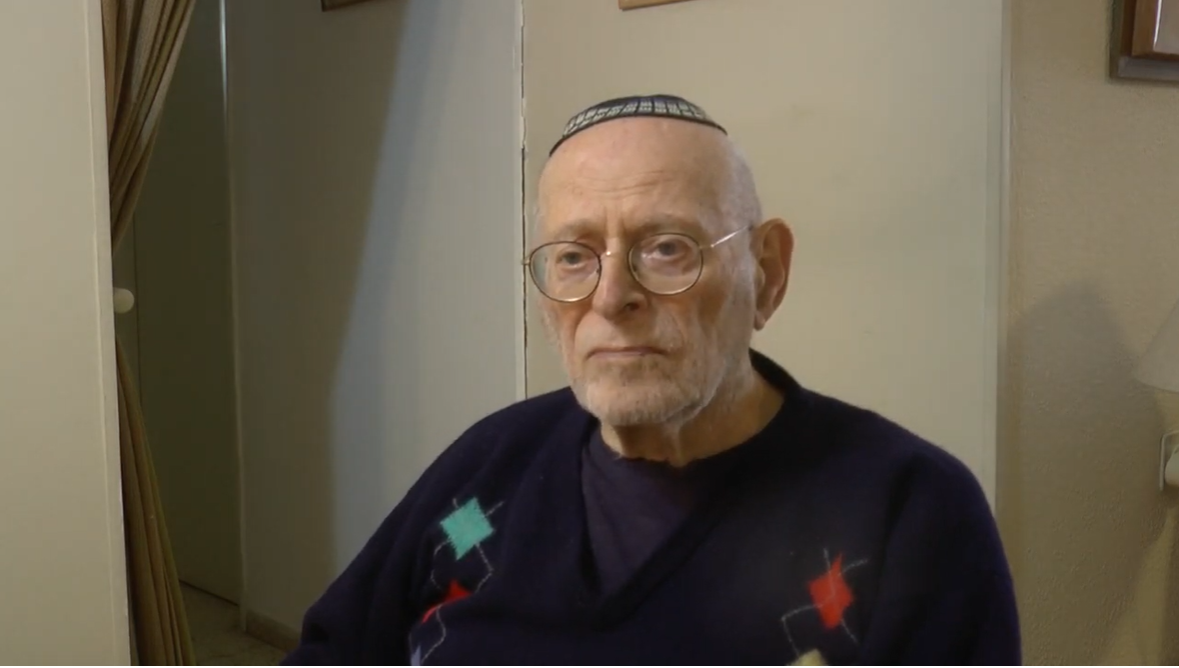
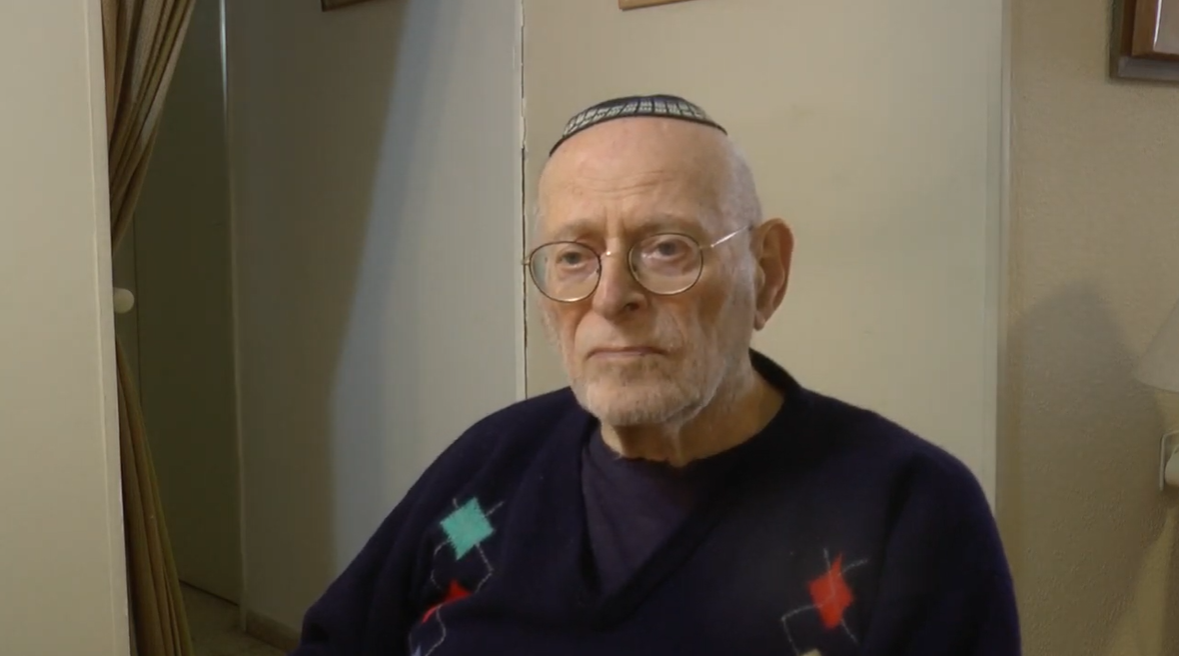
testimonies: add boxes for Eli Ringer, Paulette Fuchs Mauer, Jeanine Dorf, Chaim Rozial Charlie Freed, and Meir Marilus

diff --git a/he/holocaust/testimonies.html b/he/holocaust/testimonies.html
@@ -157,12 +157,9 @@
                         <!-- Box 2 -->
                         <div class="testimony-card">
                             <div class="testimony-box">
-                                <svg viewBox="0 0 24 24" fill="none" stroke="currentColor" stroke-width="1.5">
-                                    <path d="M19 21v-2a4 4 0 0 0-4-4H9a4 4 0 0 0-4 4v2" stroke-linecap="round" stroke-linejoin="round"/>
-                                    <circle cx="12" cy="7" r="4" stroke-linecap="round" stroke-linejoin="round"/>
-                                </svg>
+                                <img src="../../images/Testimonies pictures/Eli-Ringer.PNG" alt="אלי רינגר" class="testimony-img">
                             </div>
-                            <span class="testimony-name">אניקה וולפסון לבית רינגר</span>
+                            <span class="testimony-name">אלי רינגר</span>
                         </div>
 
                         <!-- Box 3 -->
@@ -173,23 +170,29 @@
                                     <circle cx="12" cy="7" r="4" stroke-linecap="round" stroke-linejoin="round"/>
                                 </svg>
                             </div>
-                            <span class="testimony-name">בינה קמילה לבית צ'אפק</span>
+                            <span class="testimony-name">אניקה וולפסון לבית רינגר</span>
                         </div>
 
                         <!-- Box 4 -->
                         <div class="testimony-card">
                             <div class="testimony-box">
-                                <img src="../../images/Testimonies pictures/Sylvain-Brachfeld-1932.PNG" alt="סילבן ברכפלד (נולד ב-1932)" class="testimony-img">
+                                <svg viewBox="0 0 24 24" fill="none" stroke="currentColor" stroke-width="1.5">
+                                    <path d="M19 21v-2a4 4 0 0 0-4-4H9a4 4 0 0 0-4 4v2" stroke-linecap="round" stroke-linejoin="round"/>
+                                    <circle cx="12" cy="7" r="4" stroke-linecap="round" stroke-linejoin="round"/>
+                                </svg>
                             </div>
-                            <span class="testimony-name">סילבן ברכפלד (נולד ב-1932)</span>
+                            <span class="testimony-name">בינה קמילה לבית צ'אפק</span>
                         </div>
 
                         <!-- Box 5 -->
                         <div class="testimony-card">
                             <div class="testimony-box">
-                                <img src="../../images/Testimonies pictures/Sylvain-Brachfeld-1939.PNG" alt="סילבן ברכפלד (נולד ב-1939)" class="testimony-img">
+                                <svg viewBox="0 0 24 24" fill="none" stroke="currentColor" stroke-width="1.5">
+                                    <path d="M19 21v-2a4 4 0 0 0-4-4H9a4 4 0 0 0-4 4v2" stroke-linecap="round" stroke-linejoin="round"/>
+                                    <circle cx="12" cy="7" r="4" stroke-linecap="round" stroke-linejoin="round"/>
+                                </svg>
                             </div>
-                            <span class="testimony-name">סילבן ברכפלד (נולד ב-1939)</span>
+                            <span class="testimony-name">ז'אנין דורף</span>
                         </div>
 
                         <!-- Box 6 -->
@@ -200,10 +203,59 @@
                                     <circle cx="12" cy="7" r="4" stroke-linecap="round" stroke-linejoin="round"/>
                                 </svg>
                             </div>
-                            <span class="testimony-name">רחל שטרנגר לבית רינגר</span>
+                            <span class="testimony-name">חיים רוזיאל צ'רלי פריד</span>
                         </div>
 
                         <!-- Box 7 -->
+                        <div class="testimony-card">
+                            <div class="testimony-box">
+                                <svg viewBox="0 0 24 24" fill="none" stroke="currentColor" stroke-width="1.5">
+                                    <path d="M19 21v-2a4 4 0 0 0-4-4H9a4 4 0 0 0-4 4v2" stroke-linecap="round" stroke-linejoin="round"/>
+                                    <circle cx="12" cy="7" r="4" stroke-linecap="round" stroke-linejoin="round"/>
+                                </svg>
+                            </div>
+                            <span class="testimony-name">מאיר מרילוס</span>
+                        </div>
+
+                        <!-- Box 8 -->
+                        <div class="testimony-card">
+                            <div class="testimony-box">
+                                <img src="../../images/Testimonies pictures/Sylvain-Brachfeld-1932.PNG" alt="סילבן ברכפלד (נולד ב-1932)" class="testimony-img">
+                            </div>
+                            <span class="testimony-name">סילבן ברכפלד (נולד ב-1932)</span>
+                        </div>
+
+                        <!-- Box 9 -->
+                        <div class="testimony-card">
+                            <div class="testimony-box">
+                                <img src="../../images/Testimonies pictures/Sylvain-Brachfeld-1939.PNG" alt="סילבן ברכפלד (נולד ב-1939)" class="testimony-img">
+                            </div>
+                            <span class="testimony-name">סילבן ברכפלד (נולד ב-1939)</span>
+                        </div>
+
+                        <!-- Box 10 -->
+                        <div class="testimony-card">
+                            <div class="testimony-box">
+                                <svg viewBox="0 0 24 24" fill="none" stroke="currentColor" stroke-width="1.5">
+                                    <path d="M19 21v-2a4 4 0 0 0-4-4H9a4 4 0 0 0-4 4v2" stroke-linecap="round" stroke-linejoin="round"/>
+                                    <circle cx="12" cy="7" r="4" stroke-linecap="round" stroke-linejoin="round"/>
+                                </svg>
+                            </div>
+                            <span class="testimony-name">פולט פוקס מאואר</span>
+                        </div>
+
+                        <!-- Box 11 -->
+                        <div class="testimony-card">
+                            <div class="testimony-box">
+                                <svg viewBox="0 0 24 24" fill="none" stroke="currentColor" stroke-width="1.5">
+                                    <path d="M19 21v-2a4 4 0 0 0-4-4H9a4 4 0 0 0-4 4v2" stroke-linecap="round" stroke-linejoin="round"/>
+                                    <circle cx="12" cy="7" r="4" stroke-linecap="round" stroke-linejoin="round"/>
+                                </svg>
+                            </div>
+                            <span class="testimony-name">רחל שטרנגר לבית רינגר</span>
+                        </div>
+
+                        <!-- Box 12 -->
                         <div class="testimony-card">
                             <div class="testimony-box">
                                 <svg viewBox="0 0 24 24" fill="none" stroke="currentColor" stroke-width="1.5">

diff --git a/fr/holocaust/testimonies.html b/fr/holocaust/testimonies.html
@@ -184,10 +184,62 @@
                                     <circle cx="12" cy="7" r="4" stroke-linecap="round" stroke-linejoin="round"/>
                                 </svg>
                             </div>
-                            <span class="testimony-name">Rachel Strenger, née Ringer</span>
+                            <span class="testimony-name">Chaim Rozial Charlie Freed</span>
                         </div>
 
                         <!-- Box 5 -->
+                        <div class="testimony-card">
+                            <div class="testimony-box">
+                                <img src="../../images/Testimonies pictures/Eli-Ringer.PNG" alt="Eli Ringer" class="testimony-img">
+                            </div>
+                            <span class="testimony-name">Eli Ringer</span>
+                        </div>
+
+                        <!-- Box 6 -->
+                        <div class="testimony-card">
+                            <div class="testimony-box">
+                                <svg viewBox="0 0 24 24" fill="none" stroke="currentColor" stroke-width="1.5">
+                                    <path d="M19 21v-2a4 4 0 0 0-4-4H9a4 4 0 0 0-4 4v2" stroke-linecap="round" stroke-linejoin="round"/>
+                                    <circle cx="12" cy="7" r="4" stroke-linecap="round" stroke-linejoin="round"/>
+                                </svg>
+                            </div>
+                            <span class="testimony-name">Jeanine Dorf</span>
+                        </div>
+
+                        <!-- Box 7 -->
+                        <div class="testimony-card">
+                            <div class="testimony-box">
+                                <svg viewBox="0 0 24 24" fill="none" stroke="currentColor" stroke-width="1.5">
+                                    <path d="M19 21v-2a4 4 0 0 0-4-4H9a4 4 0 0 0-4 4v2" stroke-linecap="round" stroke-linejoin="round"/>
+                                    <circle cx="12" cy="7" r="4" stroke-linecap="round" stroke-linejoin="round"/>
+                                </svg>
+                            </div>
+                            <span class="testimony-name">Meir Marilus</span>
+                        </div>
+
+                        <!-- Box 8 -->
+                        <div class="testimony-card">
+                            <div class="testimony-box">
+                                <svg viewBox="0 0 24 24" fill="none" stroke="currentColor" stroke-width="1.5">
+                                    <path d="M19 21v-2a4 4 0 0 0-4-4H9a4 4 0 0 0-4 4v2" stroke-linecap="round" stroke-linejoin="round"/>
+                                    <circle cx="12" cy="7" r="4" stroke-linecap="round" stroke-linejoin="round"/>
+                                </svg>
+                            </div>
+                            <span class="testimony-name">Paulette Fuchs Mauer</span>
+                        </div>
+
+                        <!-- Box 9 -->
+                        <div class="testimony-card">
+                            <div class="testimony-box">
+                                <svg viewBox="0 0 24 24" fill="none" stroke="currentColor" stroke-width="1.5">
+                                    <path d="M19 21v-2a4 4 0 0 0-4-4H9a4 4 0 0 0-4 4v2" stroke-linecap="round" stroke-linejoin="round"/>
+                                    <circle cx="12" cy="7" r="4" stroke-linecap="round" stroke-linejoin="round"/>
+                                </svg>
+                            </div>
+                            <span class="testimony-name">Rachel Strenger, née Ringer</span>
+                        </div>
+
+                        <!-- Box 10 -->
                         <div class="testimony-card">
                             <div class="testimony-box">
                                 <svg viewBox="0 0 24 24" fill="none" stroke="currentColor" stroke-width="1.5">
@@ -198,7 +250,7 @@
                             <span class="testimony-name">Shimon Deutch</span>
                         </div>
 
-                        <!-- Box 6 -->
+                        <!-- Box 11 -->
                         <div class="testimony-card">
                             <div class="testimony-box">
                                 <img src="../../images/Testimonies pictures/Sylvain-Brachfeld-1932.PNG" alt="Sylvain Brachfeld (né en 1932)" class="testimony-img">
@@ -206,7 +258,7 @@
                             <span class="testimony-name">Sylvain Brachfeld (né en 1932)</span>
                         </div>
 
-                        <!-- Box 7 -->
+                        <!-- Box 12 -->
                         <div class="testimony-card">
                             <div class="testimony-box">
                                 <img src="../../images/Testimonies pictures/Sylvain-Brachfeld-1939.PNG" alt="Sylvain Brachfeld (né en 1939)" class="testimony-img">

diff --git a/nl/holocaust/testimonies.html b/nl/holocaust/testimonies.html
@@ -184,10 +184,62 @@
                                     <circle cx="12" cy="7" r="4" stroke-linecap="round" stroke-linejoin="round"/>
                                 </svg>
                             </div>
-                            <span class="testimony-name">Rachel Strenger, née Ringer</span>
+                            <span class="testimony-name">Chaim Rozial Charlie Freed</span>
                         </div>
 
                         <!-- Box 5 -->
+                        <div class="testimony-card">
+                            <div class="testimony-box">
+                                <img src="../../images/Testimonies pictures/Eli-Ringer.PNG" alt="Eli Ringer" class="testimony-img">
+                            </div>
+                            <span class="testimony-name">Eli Ringer</span>
+                        </div>
+
+                        <!-- Box 6 -->
+                        <div class="testimony-card">
+                            <div class="testimony-box">
+                                <svg viewBox="0 0 24 24" fill="none" stroke="currentColor" stroke-width="1.5">
+                                    <path d="M19 21v-2a4 4 0 0 0-4-4H9a4 4 0 0 0-4 4v2" stroke-linecap="round" stroke-linejoin="round"/>
+                                    <circle cx="12" cy="7" r="4" stroke-linecap="round" stroke-linejoin="round"/>
+                                </svg>
+                            </div>
+                            <span class="testimony-name">Jeanine Dorf</span>
+                        </div>
+
+                        <!-- Box 7 -->
+                        <div class="testimony-card">
+                            <div class="testimony-box">
+                                <svg viewBox="0 0 24 24" fill="none" stroke="currentColor" stroke-width="1.5">
+                                    <path d="M19 21v-2a4 4 0 0 0-4-4H9a4 4 0 0 0-4 4v2" stroke-linecap="round" stroke-linejoin="round"/>
+                                    <circle cx="12" cy="7" r="4" stroke-linecap="round" stroke-linejoin="round"/>
+                                </svg>
+                            </div>
+                            <span class="testimony-name">Meir Marilus</span>
+                        </div>
+
+                        <!-- Box 8 -->
+                        <div class="testimony-card">
+                            <div class="testimony-box">
+                                <svg viewBox="0 0 24 24" fill="none" stroke="currentColor" stroke-width="1.5">
+                                    <path d="M19 21v-2a4 4 0 0 0-4-4H9a4 4 0 0 0-4 4v2" stroke-linecap="round" stroke-linejoin="round"/>
+                                    <circle cx="12" cy="7" r="4" stroke-linecap="round" stroke-linejoin="round"/>
+                                </svg>
+                            </div>
+                            <span class="testimony-name">Paulette Fuchs Mauer</span>
+                        </div>
+
+                        <!-- Box 9 -->
+                        <div class="testimony-card">
+                            <div class="testimony-box">
+                                <svg viewBox="0 0 24 24" fill="none" stroke="currentColor" stroke-width="1.5">
+                                    <path d="M19 21v-2a4 4 0 0 0-4-4H9a4 4 0 0 0-4 4v2" stroke-linecap="round" stroke-linejoin="round"/>
+                                    <circle cx="12" cy="7" r="4" stroke-linecap="round" stroke-linejoin="round"/>
+                                </svg>
+                            </div>
+                            <span class="testimony-name">Rachel Strenger, née Ringer</span>
+                        </div>
+
+                        <!-- Box 10 -->
                         <div class="testimony-card">
                             <div class="testimony-box">
                                 <svg viewBox="0 0 24 24" fill="none" stroke="currentColor" stroke-width="1.5">
@@ -198,7 +250,7 @@
                             <span class="testimony-name">Shimon Deutch</span>
                         </div>
 
-                        <!-- Box 6 -->
+                        <!-- Box 11 -->
                         <div class="testimony-card">
                             <div class="testimony-box">
                                 <img src="../../images/Testimonies pictures/Sylvain-Brachfeld-1932.PNG" alt="Sylvain Brachfeld (geb. 1932)" class="testimony-img">
@@ -206,7 +258,7 @@
                             <span class="testimony-name">Sylvain Brachfeld (geb. 1932)</span>
                         </div>
 
-                        <!-- Box 7 -->
+                        <!-- Box 12 -->
                         <div class="testimony-card">
                             <div class="testimony-box">
                                 <img src="../../images/Testimonies pictures/Sylvain-Brachfeld-1939.PNG" alt="Sylvain Brachfeld (geb. 1939)" class="testimony-img">

diff --git a/holocaust/testimonies.html b/holocaust/testimonies.html
@@ -184,10 +184,62 @@
                                     <circle cx="12" cy="7" r="4" stroke-linecap="round" stroke-linejoin="round"/>
                                 </svg>
                             </div>
-                            <span class="testimony-name">Rachel Strenger, née Ringer</span>
+                            <span class="testimony-name">Chaim Rozial Charlie Freed</span>
                         </div>
 
                         <!-- Box 5 -->
+                        <div class="testimony-card">
+                            <div class="testimony-box">
+                                <img src="../images/Testimonies pictures/Eli-Ringer.PNG" alt="Eli Ringer" class="testimony-img">
+                            </div>
+                            <span class="testimony-name">Eli Ringer</span>
+                        </div>
+
+                        <!-- Box 6 -->
+                        <div class="testimony-card">
+                            <div class="testimony-box">
+                                <svg viewBox="0 0 24 24" fill="none" stroke="currentColor" stroke-width="1.5">
+                                    <path d="M19 21v-2a4 4 0 0 0-4-4H9a4 4 0 0 0-4 4v2" stroke-linecap="round" stroke-linejoin="round"/>
+                                    <circle cx="12" cy="7" r="4" stroke-linecap="round" stroke-linejoin="round"/>
+                                </svg>
+                            </div>
+                            <span class="testimony-name">Jeanine Dorf</span>
+                        </div>
+
+                        <!-- Box 7 -->
+                        <div class="testimony-card">
+                            <div class="testimony-box">
+                                <svg viewBox="0 0 24 24" fill="none" stroke="currentColor" stroke-width="1.5">
+                                    <path d="M19 21v-2a4 4 0 0 0-4-4H9a4 4 0 0 0-4 4v2" stroke-linecap="round" stroke-linejoin="round"/>
+                                    <circle cx="12" cy="7" r="4" stroke-linecap="round" stroke-linejoin="round"/>
+                                </svg>
+                            </div>
+                            <span class="testimony-name">Meir Marilus</span>
+                        </div>
+
+                        <!-- Box 8 -->
+                        <div class="testimony-card">
+                            <div class="testimony-box">
+                                <svg viewBox="0 0 24 24" fill="none" stroke="currentColor" stroke-width="1.5">
+                                    <path d="M19 21v-2a4 4 0 0 0-4-4H9a4 4 0 0 0-4 4v2" stroke-linecap="round" stroke-linejoin="round"/>
+                                    <circle cx="12" cy="7" r="4" stroke-linecap="round" stroke-linejoin="round"/>
+                                </svg>
+                            </div>
+                            <span class="testimony-name">Paulette Fuchs Mauer</span>
+                        </div>
+
+                        <!-- Box 9 -->
+                        <div class="testimony-card">
+                            <div class="testimony-box">
+                                <svg viewBox="0 0 24 24" fill="none" stroke="currentColor" stroke-width="1.5">
+                                    <path d="M19 21v-2a4 4 0 0 0-4-4H9a4 4 0 0 0-4 4v2" stroke-linecap="round" stroke-linejoin="round"/>
+                                    <circle cx="12" cy="7" r="4" stroke-linecap="round" stroke-linejoin="round"/>
+                                </svg>
+                            </div>
+                            <span class="testimony-name">Rachel Strenger, née Ringer</span>
+                        </div>
+
+                        <!-- Box 10 -->
                         <div class="testimony-card">
                             <div class="testimony-box">
                                 <svg viewBox="0 0 24 24" fill="none" stroke="currentColor" stroke-width="1.5">
@@ -198,7 +250,7 @@
                             <span class="testimony-name">Shimon Deutch</span>
                         </div>
 
-                        <!-- Box 6 -->
+                        <!-- Box 11 -->
                         <div class="testimony-card">
                             <div class="testimony-box">
                                 <img src="../images/Testimonies pictures/Sylvain-Brachfeld-1932.PNG" alt="Sylvain Brachfeld (b. 1932)" class="testimony-img">
@@ -206,7 +258,7 @@
                             <span class="testimony-name">Sylvain Brachfeld (b. 1932)</span>
                         </div>
 
-                        <!-- Box 7 -->
+                        <!-- Box 12 -->
                         <div class="testimony-card">
                             <div class="testimony-box">
                                 <img src="../images/Testimonies pictures/Sylvain-Brachfeld-1939.PNG" alt="Sylvain Brachfeld (b. 1939)" class="testimony-img">
